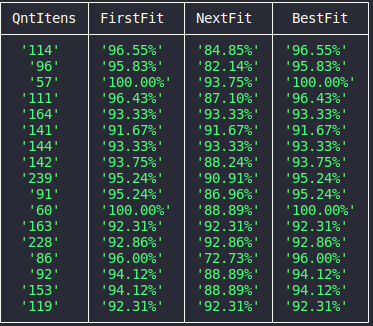
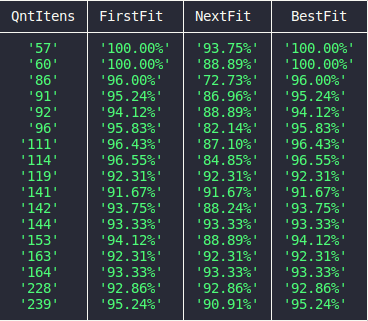
alteracoes finais

Changed region(s): [[0.0, 0.0, 1.0, 1.0]]

diff --git a/index.js b/index.js
@@ -6,7 +6,7 @@ const Chart = require("./chart");
 
 let data = Read.readInputFiles();
 
-let qntReps = 3;
+let qntReps = 1;
 
 let firstFit_result = FirstFit.executarFirstFit(data, qntReps);
 
@@ -23,6 +23,9 @@ data.map((file, i) => {
     let tableObj = {QntItens: obj.id, FirstFit: (obj.FirstFit.aproximacao  + "%"), NextFit: (obj.NextFit.aproximacao + "%"), BestFit: (obj.BestFit.aproximacao + "%")};
     tableStructure.push(tableObj);
 })
+
+final_results = final_results.sort((a,b) => a.id - b.id);
+tableStructure = tableStructure.sort((a,b) => a.QntItens - b.QntItens);
 
 console.log("\n\n✅ Tabela de assertivade");
 console.table(tableStructure);
